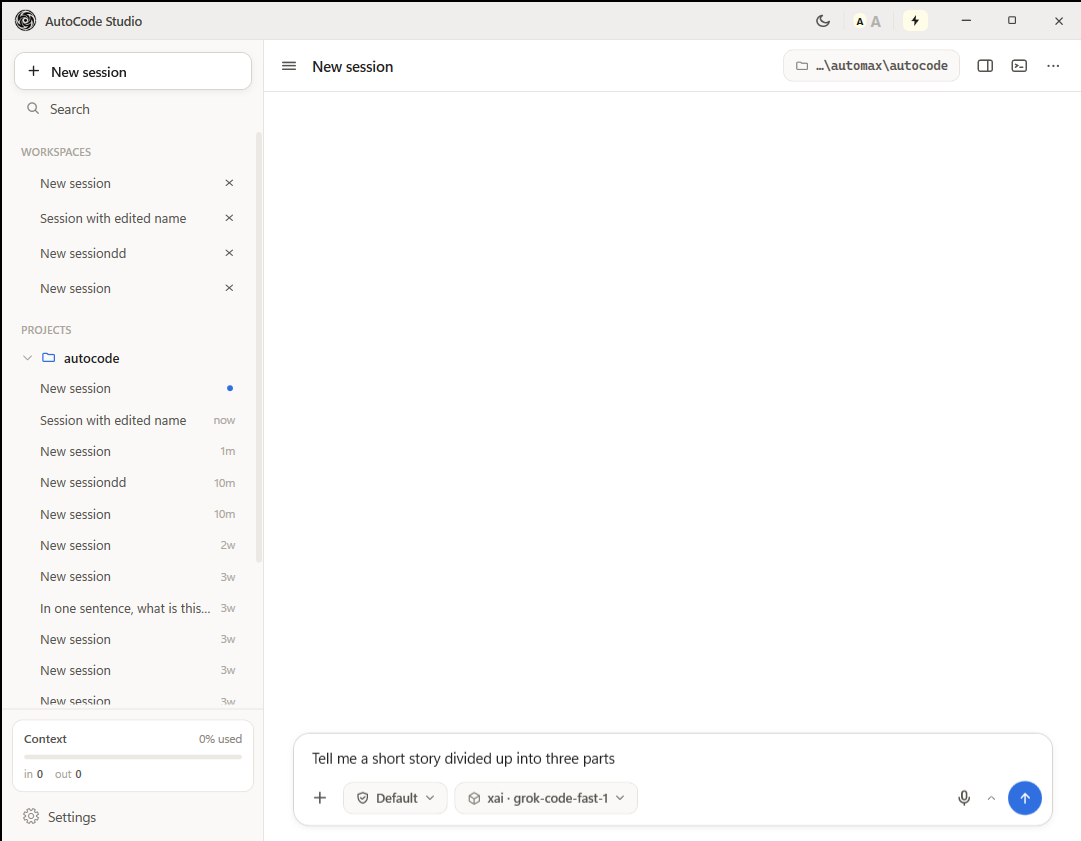
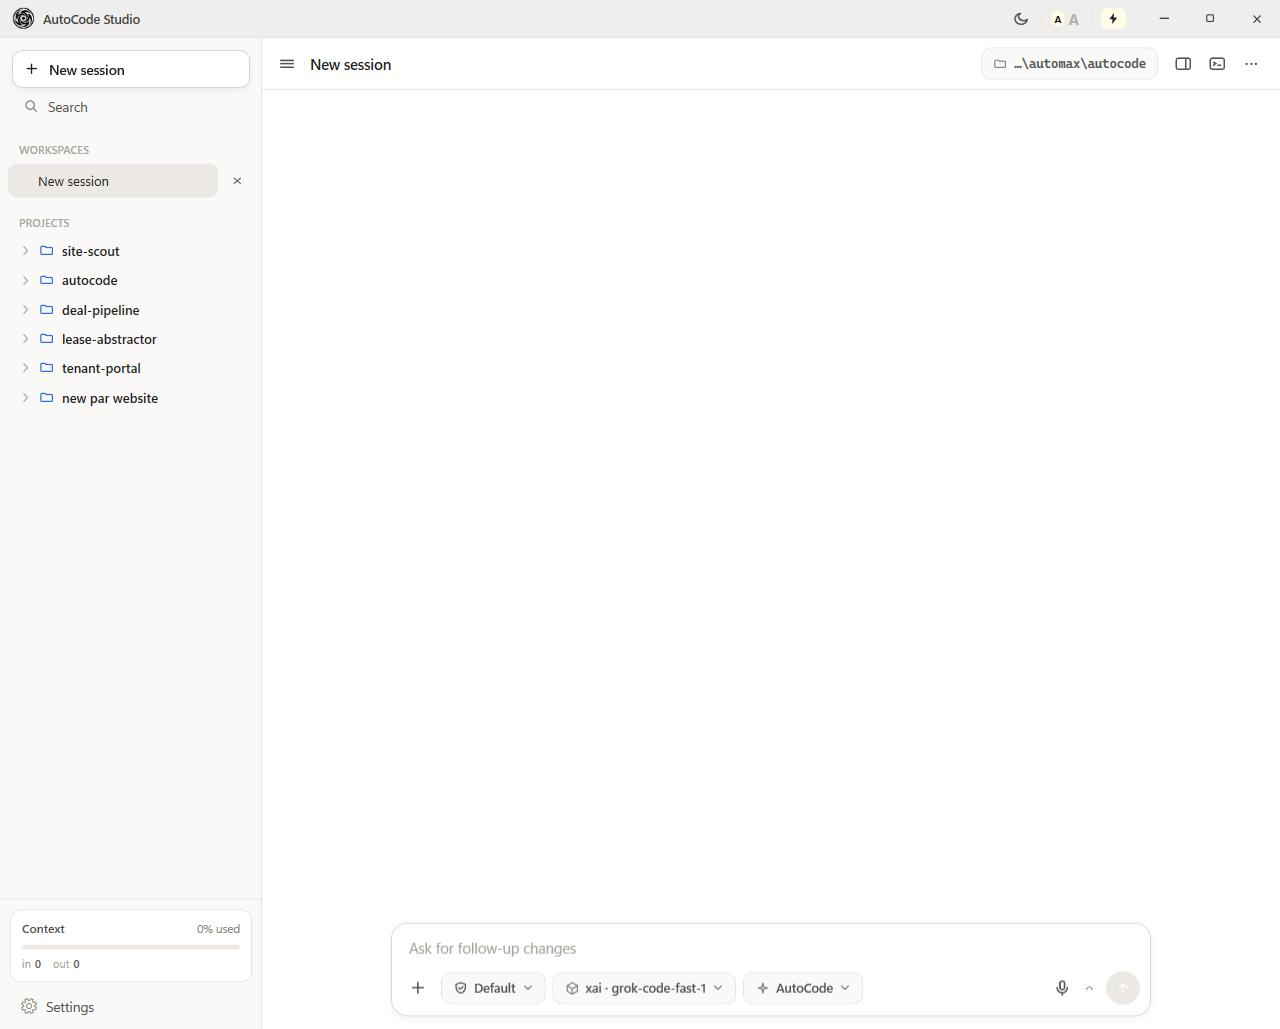
Gate the Ecosystems feature behind EnableEcosystems (default off) for release
Release-scope decision: ship AutoCode Studio as a pure multi-agent workbench
(AutoCode / Claude Code / Codex, worktree isolation, approvals) and park the
Ecosystems layer until it has earned its keep. The feature is PRESERVED, not
removed - it stays live-verified in the codebase and re-enables by setting
"enableEcosystems": true in ~/.autocode-gui/config.json.

Mechanism: InitEcosystems skips loading the registry when the flag is off, and
every downstream surface self-disables through the existing zero-ecosystems
dormancy (no sidebar sections or grouping toggle, no briefings, no report or
orchestration tools, feed tee and @user routing no-op). The project
right-click menu (ecosystem-only actions) is gated at the handler so it never
opens. The registry file on disk is never touched; flipping the flag restores
any previously created ecosystems intact.

Claude-Session: https://claude.ai/code/session_01Mr282oJsezNFKgAMpKsr2Z

diff --git a/AutoCode.Desktop/MainWindow.Ecosystems.cs b/AutoCode.Desktop/MainWindow.Ecosystems.cs
@@ -22,7 +22,11 @@ public partial class MainWindow
     /// config block and before the first StartNewSession (which triggers the first RebuildSidebar).</summary>
     private void InitEcosystems()
     {
-        _ecosystems = EcosystemIndex.LoadAll();
+        // Release gate: with EnableEcosystems off the registry is simply never loaded, and every
+        // downstream path (sidebar sections, grouping toggle, briefings, report/orchestration
+        // tools, feed tee, @mentions) self-disables through the existing zero-ecosystems dormancy.
+        // The registry file on disk is untouched, so flipping the flag back restores everything.
+        _ecosystems = _config.EnableEcosystems ? EcosystemIndex.LoadAll() : [];
         RebuildEcosystemCache();
     }
 
@@ -281,6 +285,11 @@ public partial class MainWindow
 
     private async Task CreateEcosystemAsync(string? preselectRoot)
     {
+        if (!_config.EnableEcosystems)
+        {
+            return;
+        }
+
         // Candidates: every known project root — saved sessions + live workspaces. Always
         // session.ProjectRoot (the real folder), never Context.ProjectRoot (worktree path).
         var candidates = SessionIndex.LoadAll().Where(s => s.Kind != WorkspaceSession.EcosystemKind).Select(s => s.ProjectRoot)
@@ -320,6 +329,12 @@ public partial class MainWindow
 
     private void ProjectRow_RightClick(object sender, MouseButtonEventArgs e)
     {
+        // The project context menu only serves ecosystem actions; gated off, it never opens.
+        if (!_config.EnableEcosystems)
+        {
+            return;
+        }
+
         if ((sender as FrameworkElement)?.DataContext is not ProjectNode node)
         {
             return;

diff --git a/AutoCode.Engine/Auth/AutocodeConfig.cs b/AutoCode.Engine/Auth/AutocodeConfig.cs
@@ -45,6 +45,11 @@ public sealed class AutocodeConfig
 
     public bool KeepAwakeEnabled { get; set; }
 
+    /// <summary>Master switch for the Ecosystems feature set (grouping, ecosystem chats, manager
+    /// agent). Default off for release — the app reads as a plain multi-agent workbench; flipping
+    /// this true in config.json restores the feature (the registry file on disk is never touched).</summary>
+    public bool EnableEcosystems { get; set; }
+
     /// <summary>When true, the sidebar groups projects under their ecosystem (Phase 2). Off = flat list.</summary>
     public bool GroupByEcosystem { get; set; }
 